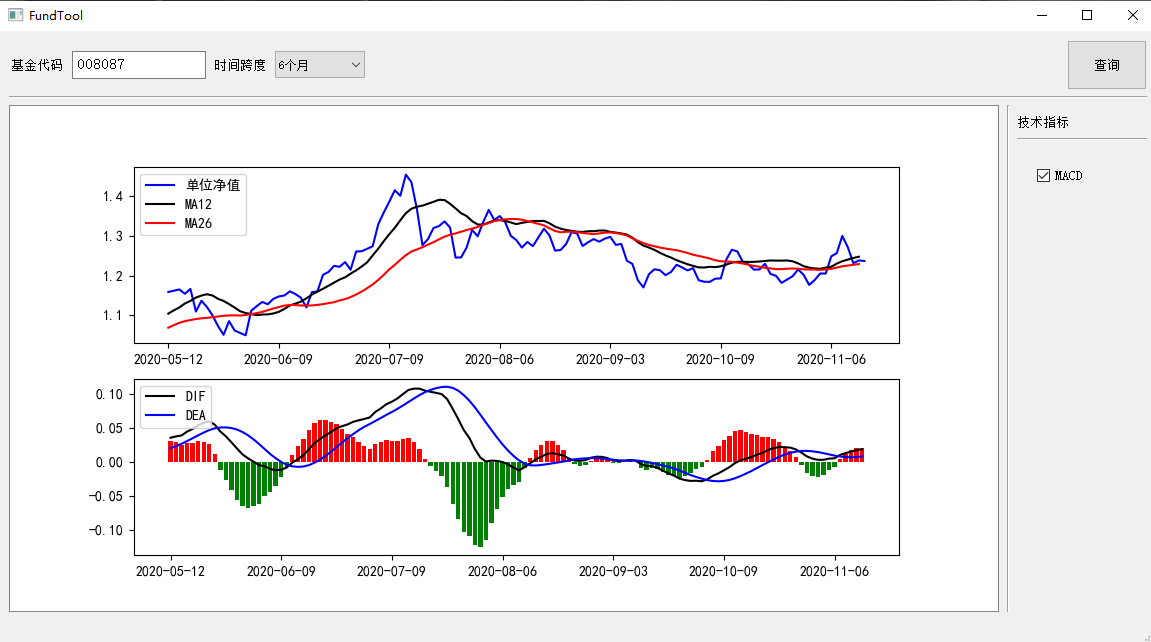
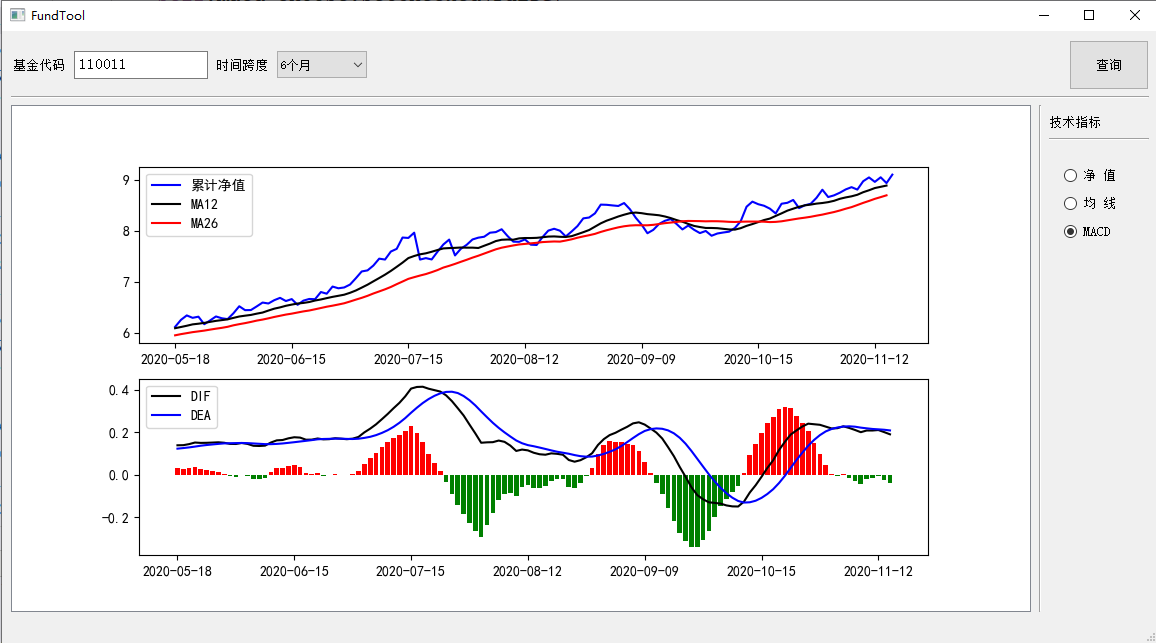
增加均线，修复MA的bug

diff --git a/src/ui/main_window.py b/src/ui/main_window.py
@@ -79,12 +79,16 @@ class MainWindow(Ui_MainWindow, QMainWindow):
         self.df = None
         self.ma12 = None
         self.ma26 = None
+        self.ma5 = None
+        self.ma10 = None
+        self.ma20 = None
         self.dif = None
         self.dea = None
         self.macd_bar = None
         self.query_button.clicked.connect(self.query)
         self.val_choose.toggled.connect(self.repaint)
         self.macd_choose.toggled.connect(self.repaint)
+        self.ma_choose.toggled.connect(self.repaint)
 
         self.init_box()
 
@@ -96,6 +100,7 @@ class MainWindow(Ui_MainWindow, QMainWindow):
 
     def init_box(self):
         self.val_choose.setChecked(True)
+        self.macd_choose.setChecked(False)
         self.macd_choose.setChecked(False)
 
     def get_code(self):
@@ -110,6 +115,9 @@ class MainWindow(Ui_MainWindow, QMainWindow):
 
     def reset_date(self, begin):
         begin = pd.to_datetime(begin, format='%Y/%m/%d')
+        self.ma5 = self.ma5[self.ma5[DATE_FIELD] > begin]
+        self.ma10 = self.ma10[self.ma10[DATE_FIELD] > begin]
+        self.ma20 = self.ma20[self.ma20[DATE_FIELD] > begin]
         self.ma12 = self.ma12[self.ma12[DATE_FIELD] > begin]
         self.ma26 = self.ma26[self.ma26[DATE_FIELD] > begin]
         self.dif = self.dif[self.dif[DATE_FIELD] > begin]
@@ -123,6 +131,9 @@ class MainWindow(Ui_MainWindow, QMainWindow):
         print('request for %s, from %s to %s' % (self.get_code(), st, en))
         self.df, self.val = fund_information(code, st, en, begin)
         if self.df is not None:
+            self.ma5 = get_ma(5, self.df)
+            self.ma10 = get_ma(10, self.df)
+            self.ma20 = get_ma(20, self.df)
             self.ma12 = get_ma(12, self.df)
             self.ma26 = get_ma(26, self.df)
             self.dif = get_dif(self.ma12, self.ma26)
@@ -142,16 +153,22 @@ class MainWindow(Ui_MainWindow, QMainWindow):
         if self.df is None: return
         self.init_main_fig()
         if self.val_choose.isChecked():
-            self.set_main_fig(111, self.val[DATE_FIELD], self.val[UNIT_VAL_FIELD], UNIT_VAL_COLOR, UNIT_VAL_LABEL)
             self.set_main_fig(111, self.val[DATE_FIELD], self.val[SUM_VAL_FIELD], SUM_VAL_COLOR, SUM_VAL_LABEL)
+            self.set_main_fig(111, self.val[DATE_FIELD], self.val[UNIT_VAL_FIELD], UNIT_VAL_COLOR, UNIT_VAL_LABEL)
             self.show_fig(111)
         elif self.macd_choose.isChecked():
-            self.set_main_fig(211, self.val[DATE_FIELD], self.val[SUM_VAL_FIELD], UNIT_VAL_COLOR, SUM_VAL_LABEL)
-            self.set_main_fig(211, self.ma12[DATE_FIELD], self.ma12[SUM_VAL_FIELD], MA10_COLOR, MA10_LABEL)
-            self.set_main_fig(211, self.ma26[DATE_FIELD], self.ma26[SUM_VAL_FIELD], MA20_COLOR, MA20_LABEL)
+            self.set_main_fig(211, self.val[DATE_FIELD], self.val[SUM_VAL_FIELD], SUM_VAL_COLOR, SUM_VAL_LABEL)
+            self.set_main_fig(211, self.ma12[DATE_FIELD], self.ma12[SUM_VAL_FIELD], MA12_COLOR, MA12_LABEL)
+            self.set_main_fig(211, self.ma26[DATE_FIELD], self.ma26[SUM_VAL_FIELD], MA26_COLOR, MA26_LABEL)
             self.show_fig(211)
             self.set_main_fig(212, self.dif[DATE_FIELD], self.dif[SUM_VAL_FIELD], DIF_COLOR, DIF_LABEL)
             self.set_main_fig(212, self.dea[DATE_FIELD], self.dea[SUM_VAL_FIELD], DEA_COLOR, DEA_LABEL)
             self.main_fig.plot_bar(212, self.macd_bar[DATE_FIELD], self.macd_bar[SUM_VAL_FIELD])
             self.show_fig(212)
+        elif self.ma_choose.isChecked():
+            self.set_main_fig(111, self.val[DATE_FIELD], self.val[SUM_VAL_FIELD], SUM_VAL_COLOR, SUM_VAL_LABEL)
+            self.set_main_fig(111, self.ma5[DATE_FIELD], self.ma5[SUM_VAL_FIELD], MA5_COLOR, MA5_LABEL)
+            self.set_main_fig(111, self.ma10[DATE_FIELD], self.ma10[SUM_VAL_FIELD], MA10_COLOR, MA10_LABEL)
+            self.set_main_fig(111, self.ma20[DATE_FIELD], self.ma20[SUM_VAL_FIELD], MA20_COLOR, MA20_LABEL)
+            self.show_fig(111)
 

diff --git a/src/ui_class/base_main_window.py b/src/ui_class/base_main_window.py
@@ -132,6 +132,14 @@ class Ui_MainWindow(object):
         self.val_choose.setFont(font)
         self.val_choose.setObjectName("val_choose")
         self.verticalLayout.addWidget(self.val_choose)
+        self.ma_choose = QtWidgets.QRadioButton(self.centralwidget)
+        self.ma_choose.setMinimumSize(QtCore.QSize(80, 0))
+        font = QtGui.QFont()
+        font.setFamily("宋体")
+        font.setPointSize(10)
+        self.ma_choose.setFont(font)
+        self.ma_choose.setObjectName("ma_choose")
+        self.verticalLayout.addWidget(self.ma_choose)
         self.macd_choose = QtWidgets.QRadioButton(self.centralwidget)
         self.macd_choose.setMinimumSize(QtCore.QSize(80, 0))
         font = QtGui.QFont()
@@ -176,4 +184,5 @@ class Ui_MainWindow(object):
         self.query_button.setText(_translate("MainWindow", "查询"))
         self.label_4.setText(_translate("MainWindow", "技术指标"))
         self.val_choose.setText(_translate("MainWindow", "净 值"))
+        self.ma_choose.setText(_translate("MainWindow", "均 线"))
         self.macd_choose.setText(_translate("MainWindow", "MACD"))

diff --git a/src/basic/fund_handle.py b/src/basic/fund_handle.py
@@ -79,15 +79,14 @@ def get_ma(n, df):
 
     sum_val = 0
     pre = 0
-    for i in range(n - 1):
+    for i in range(0, df.shape[0]):
         sum_val += df.iloc[i,].loc[SUM_VAL_FIELD]
-    for i in range(n, df.shape[0]):
-        sum_val += df.iloc[i,].loc[SUM_VAL_FIELD]
-        if i > n:
+        if i >= n:
             sum_val -= df.iloc[pre,].loc[SUM_VAL_FIELD]
             pre += 1
-        date_time.append(df.iloc[i,].loc[DATE_FIELD])
-        ma.append(sum_val / n)
+        if i >= n - 1:
+            date_time.append(df.iloc[i,].loc[DATE_FIELD])
+            ma.append(sum_val / n)
     n_df = pd.DataFrame()
     n_df[DATE_FIELD] = pd.to_datetime(date_time, format='%Y/%m/%d')
     n_df[SUM_VAL_FIELD] = ma

diff --git a/src/basic/config.py b/src/basic/config.py
@@ -1,17 +1,23 @@
 # -*- coding: utf-8 -*-
 
-UNIT_VAL_COLOR = 'b'
+UNIT_VAL_COLOR = 'r'
 UNIT_VAL_LABEL = '单位净值'
-SUM_VAL_COLOR = 'g'
+SUM_VAL_COLOR = 'b'
 SUM_VAL_LABEL = '累计净值'
-MA10_COLOR = 'k'
-MA10_LABEL = 'MA12'
-MA20_COLOR = 'r'
-MA20_LABEL = 'MA26'
+MA12_COLOR = 'k'
+MA12_LABEL = 'MA12'
+MA26_COLOR = 'r'
+MA26_LABEL = 'MA26'
 DIF_COLOR = 'k'
 DIF_LABEL = 'DIF'
 DEA_COLOR = 'b'
 DEA_LABEL = 'DEA'
+MA5_COLOR = 'k'
+MA5_LABEL = 'MA5'
+MA10_COLOR = 'r'
+MA10_LABEL = 'MA10'
+MA20_COLOR = 'y'
+MA20_LABEL = 'MA20'
 
 DATE_FIELD = '净值日期'
 SUM_VAL_FIELD = '累计净值'
